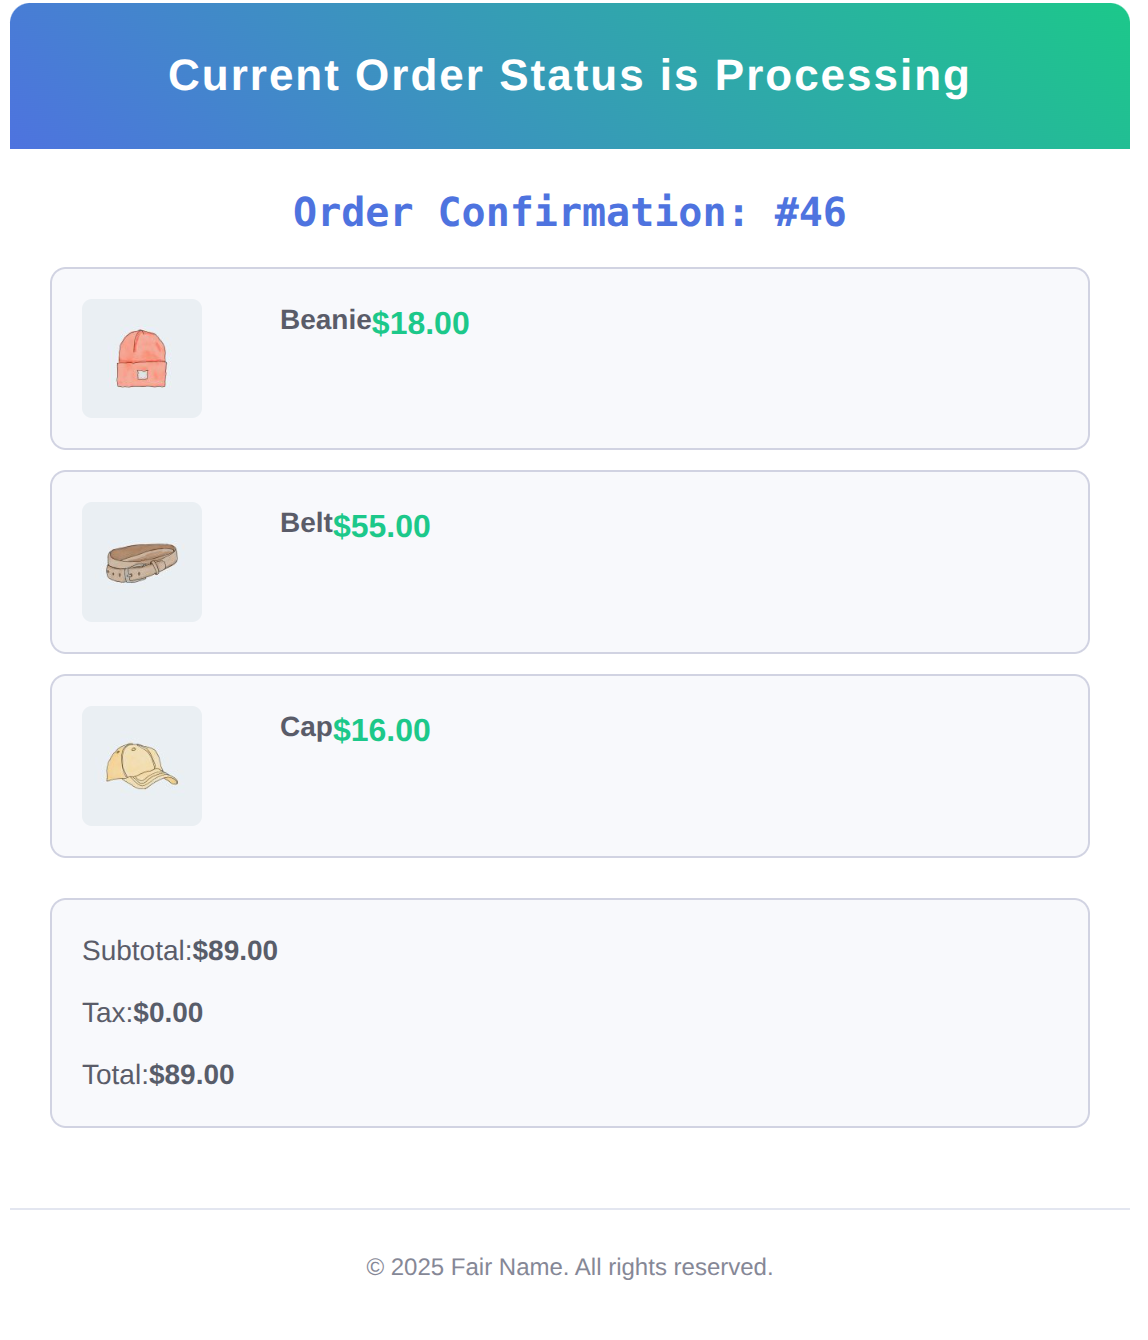
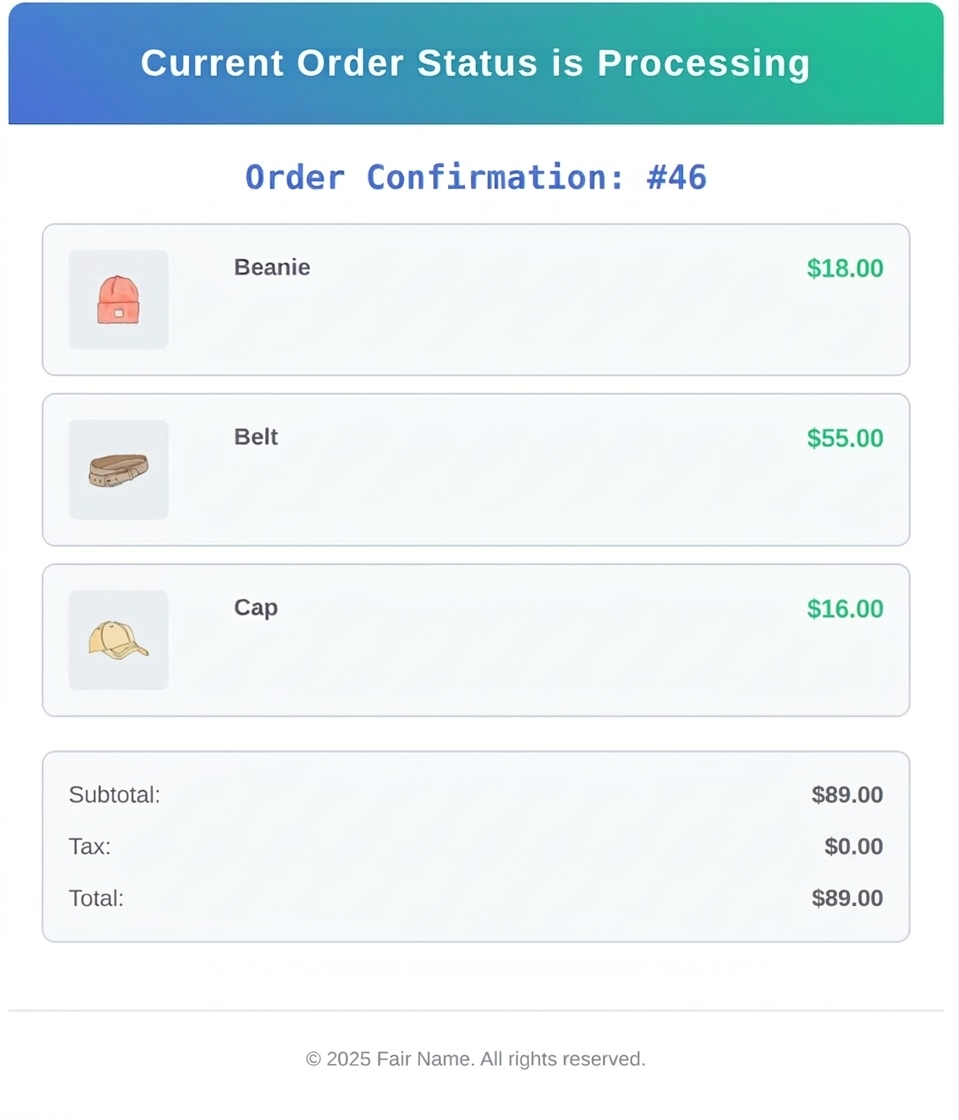
Order API work

diff --git a/track-orders-for-woocommerce.php b/track-orders-for-woocommerce.php
@@ -23,9 +23,9 @@
  *
  * Requires Plugins:  woocommerce
  * Requires at least:    6.7.0
- * Tested up to:         6.9.1
+ * Tested up to:         6.9.4
  * WC requires at least: 6.5.0
- * WC tested up to:      10.5.3
+ * WC tested up to:      10.6.1
  * Requires PHP:         7.4
  * Stable tag:           1.2.3
  *

diff --git a/admin/partials/track-orders-for-woocommerce-order-api.php b/admin/partials/track-orders-for-woocommerce-order-api.php
@@ -87,7 +87,6 @@ $tofw_sample_create_payload_json = wp_json_encode( $tofw_sample_create_payload, 
 }
 .tofw-api-hero {
 	background: linear-gradient(135deg, #eff7ff 0%, #ffffff 65%);
-	border-left: 4px solid var(--tofw-api-blue);
 }
 .tofw-api-title {
 	font-size: 34px;
